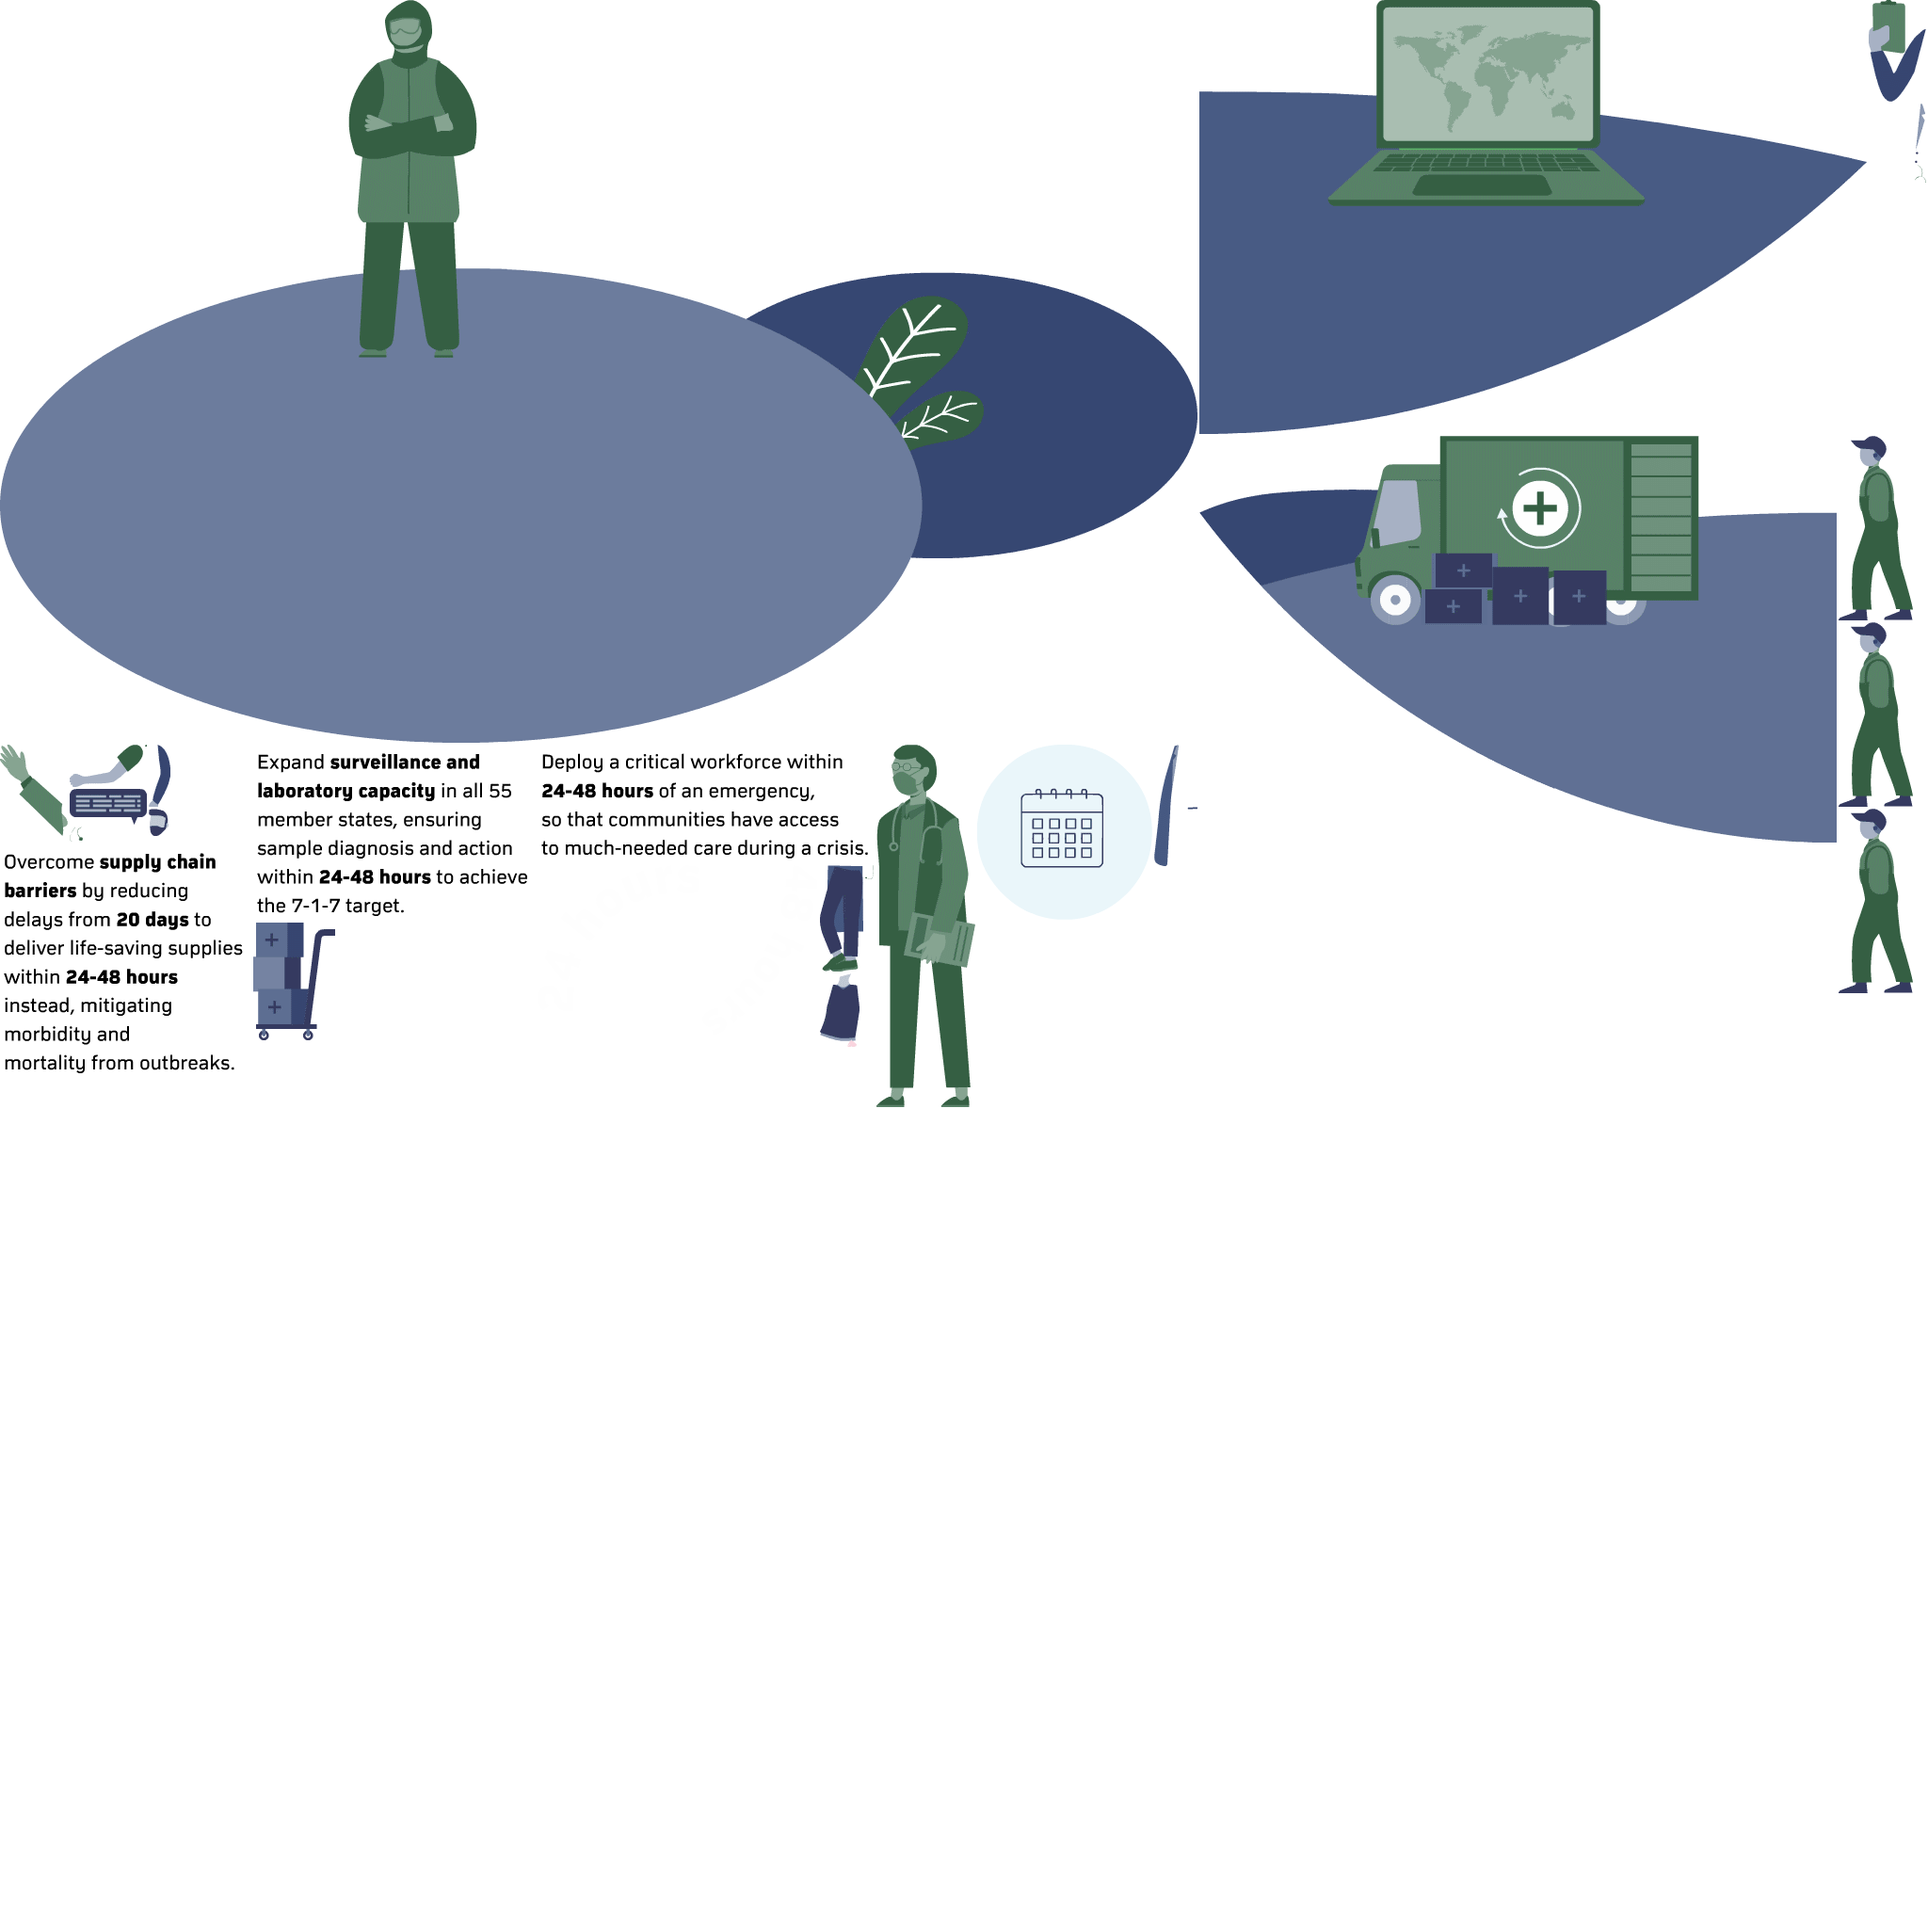
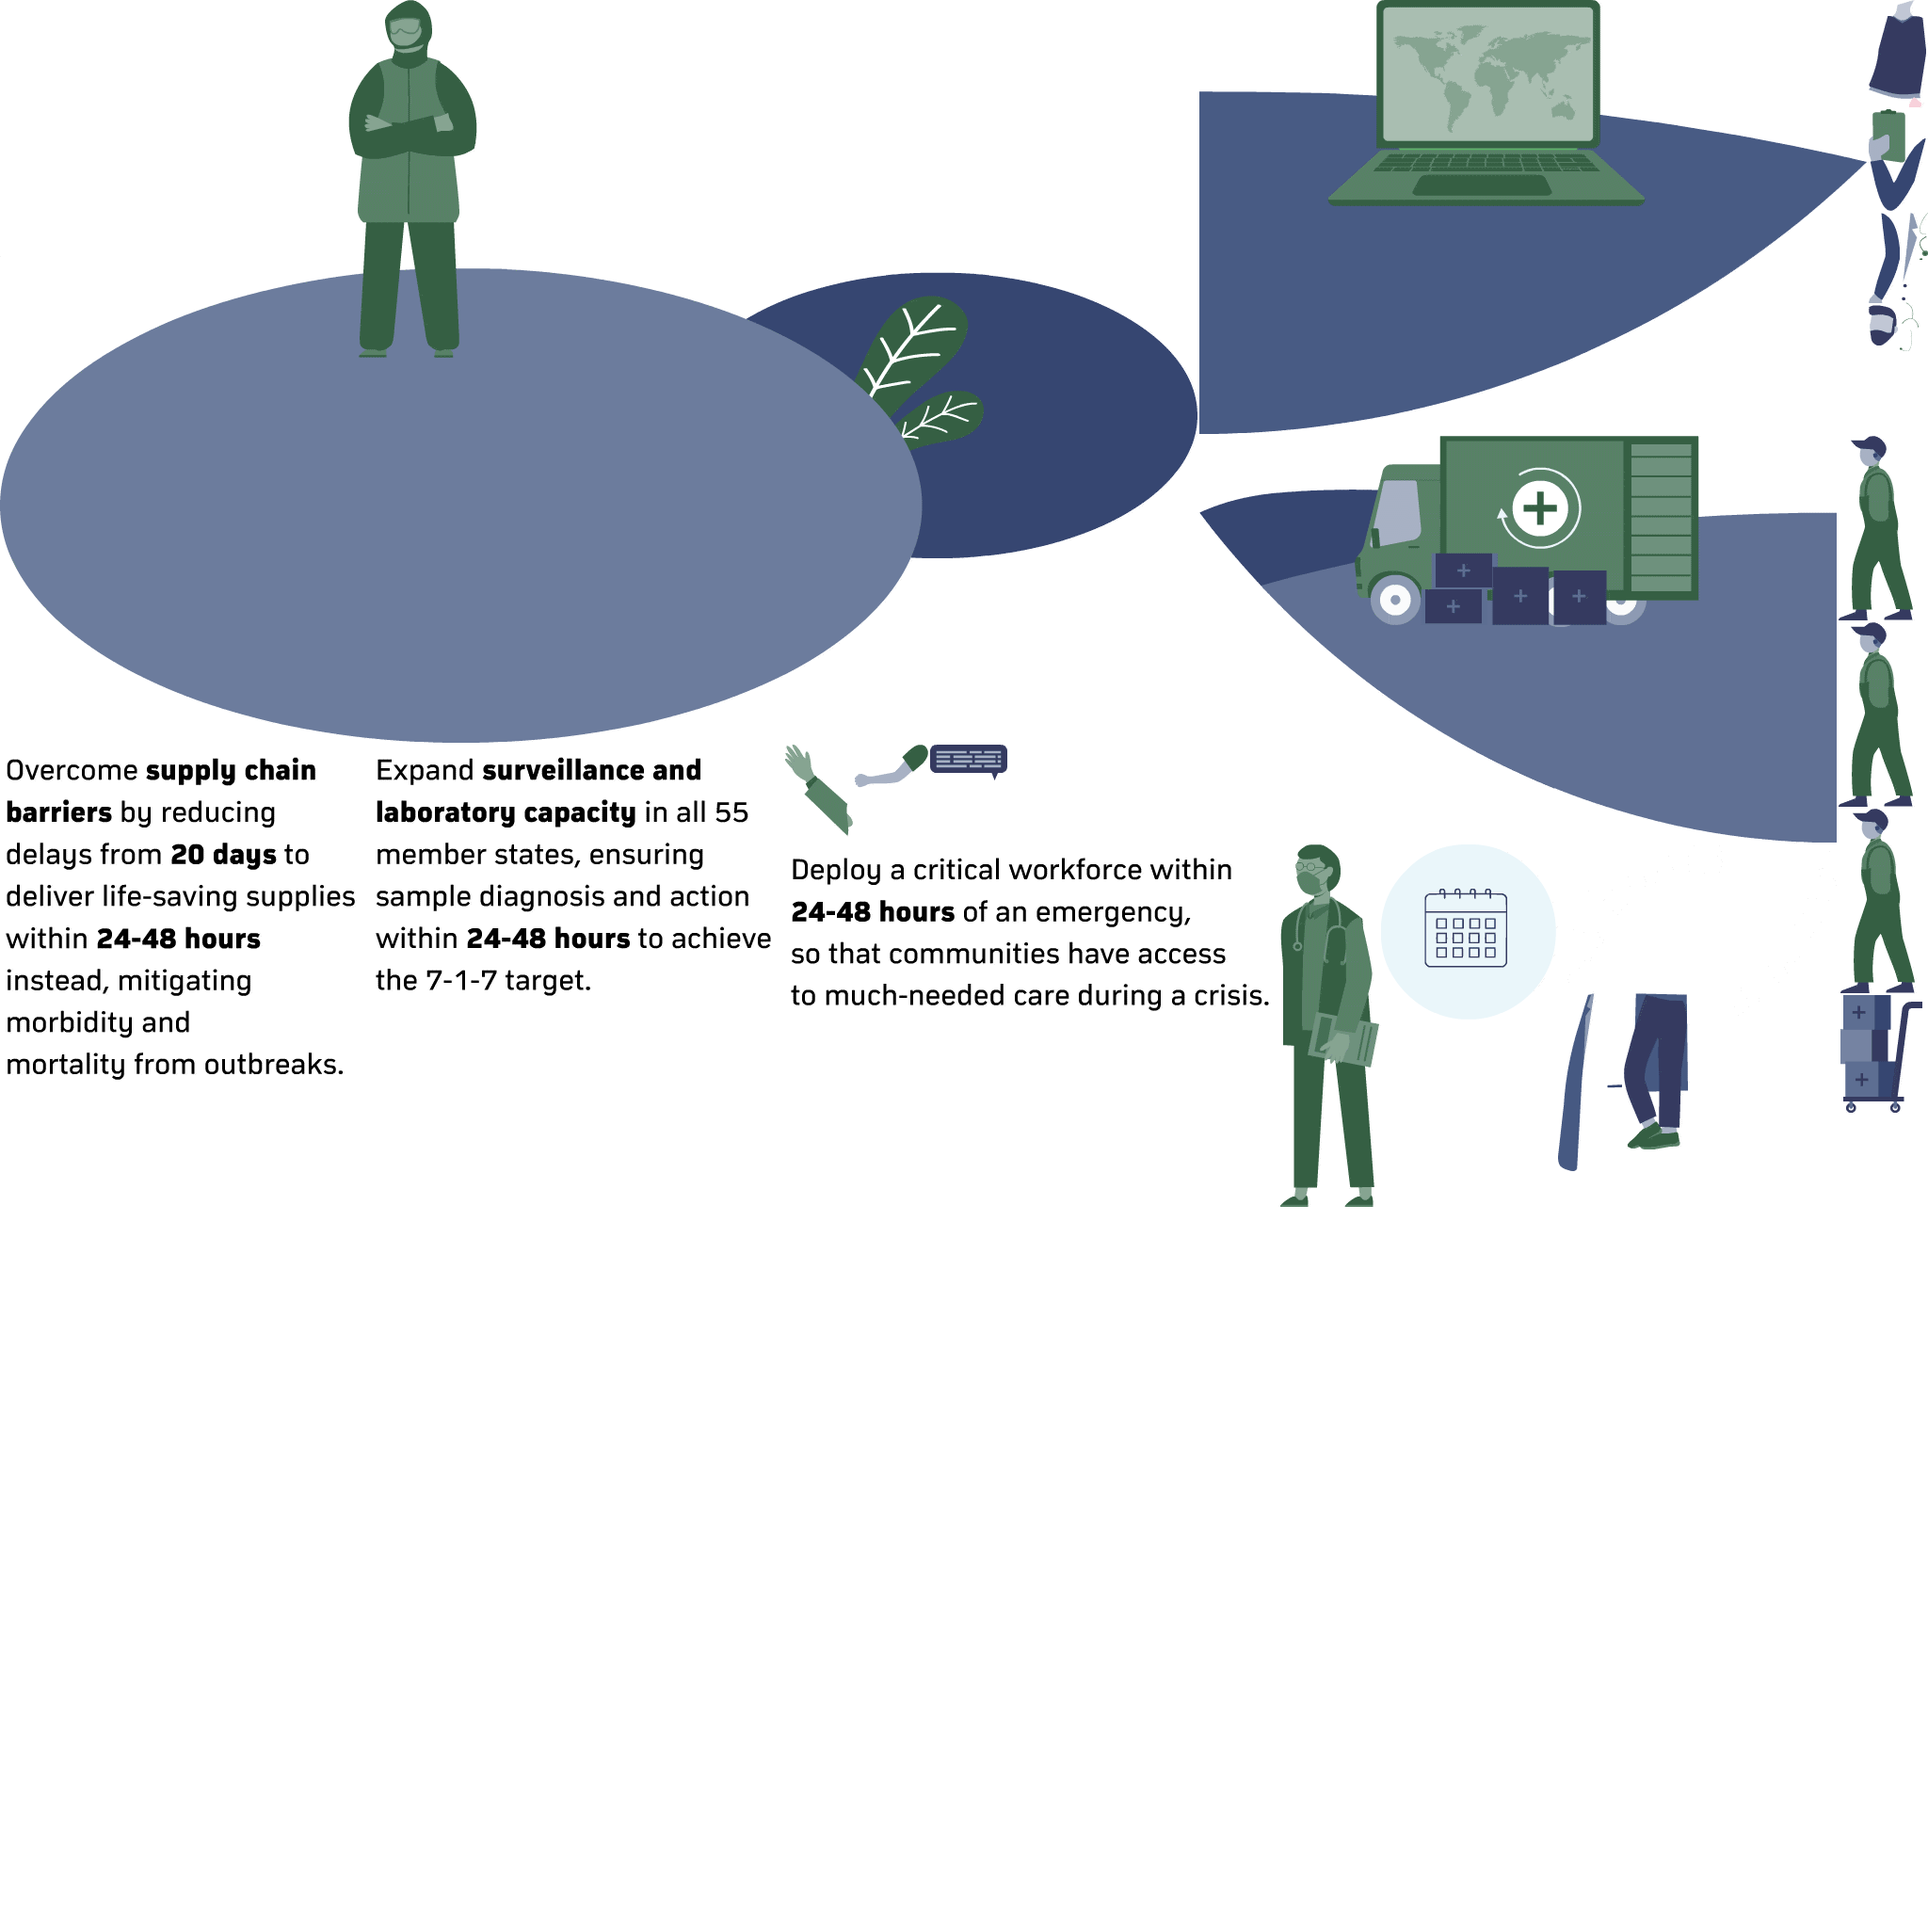
adding canvas change

diff --git a/public/scripts/outer-circle.js b/public/scripts/outer-circle.js
@@ -4,7 +4,7 @@
 	var lib={};var ss={};var img={};
 	lib.ssMetadata = [
 			{name:"cir1_atlas_1", frames: [[0,0,1699,1699]]},
-			{name:"cir1_atlas_2", frames: [[571,919,173,156],[269,980,87,125],[746,919,123,181],[74,838,82,38],[74,791,78,45],[0,897,267,248],[269,791,300,187],[571,791,358,126],[0,791,72,97],[1985,0,61,108],[1274,463,677,432],[1274,0,709,461],[0,0,1272,789],[1038,791,186,186],[1953,463,79,196],[1953,661,79,196],[1953,859,79,196],[931,791,105,385],[158,859,21,29],[82,878,6,15],[2034,175,12,19],[154,791,2,2],[74,878,6,16],[919,919,9,15],[158,791,23,66],[1226,791,46,129],[2034,110,11,63],[871,1034,42,78],[871,919,46,113]]}
+			{name:"cir1_atlas_2", frames: [[1655,897,173,156],[1955,1057,87,125],[1830,897,123,181],[988,791,82,38],[908,791,78,45],[0,791,391,363],[393,791,439,274],[834,897,524,184],[834,791,72,97],[1985,116,61,108],[1274,463,677,432],[1274,0,709,461],[0,0,1272,789],[1467,897,186,186],[1953,463,79,196],[1953,661,79,196],[1955,859,79,196],[1360,897,105,385],[1985,324,31,43],[2039,251,9,21],[2020,321,18,27],[2039,274,3,2],[2039,226,9,23],[2018,350,13,23],[1985,226,33,96],[1655,1055,68,189],[2020,226,17,93],[1985,0,61,114],[1725,1055,68,166]]}
 	];
 	
 	
@@ -497,13 +497,13 @@
 	
 		// Layer_1
 		this.instance = new lib.CachedBmp_24();
-		this.instance.setTransform(0,0,0.5,0.5);
+		this.instance.setTransform(0,0,0.3413,0.3413);
 	
 		this.timeline.addTween(cjs.Tween.get(this.instance).wait(1));
 	
 		this._renderFirstFrame();
 	
-	}).prototype = getMCSymbolPrototype(lib.ost3, new cjs.Rectangle(0,0,133.5,124), null);
+	}).prototype = getMCSymbolPrototype(lib.ost3, new cjs.Rectangle(0,0,133.5,123.9), null);
 	
 	
 	(lib.ost2 = function(mode,startPosition,loop,reversed) {
@@ -519,13 +519,13 @@
 	
 		// Layer_1
 		this.instance = new lib.CachedBmp_23();
-		this.instance.setTransform(0,0,0.5,0.5);
+		this.instance.setTransform(0,0,0.3413,0.3413);
 	
 		this.timeline.addTween(cjs.Tween.get(this.instance).wait(1));
 	
 		this._renderFirstFrame();
 	
-	}).prototype = getMCSymbolPrototype(lib.ost2, new cjs.Rectangle(0,0,150,93.5), null);
+	}).prototype = getMCSymbolPrototype(lib.ost2, new cjs.Rectangle(0,0,149.9,93.5), null);
 	
 	
 	(lib.ost1 = function(mode,startPosition,loop,reversed) {
@@ -541,13 +541,13 @@
 	
 		// Layer_1
 		this.instance = new lib.CachedBmp_22();
-		this.instance.setTransform(0,0,0.5,0.5);
+		this.instance.setTransform(0,0,0.3413,0.3413);
 	
 		this.timeline.addTween(cjs.Tween.get(this.instance).wait(1));
 	
 		this._renderFirstFrame();
 	
-	}).prototype = getMCSymbolPrototype(lib.ost1, new cjs.Rectangle(0,0,179,63), null);
+	}).prototype = getMCSymbolPrototype(lib.ost1, new cjs.Rectangle(0,0,178.9,62.8), null);
 	
 	
 	(lib.hand_anim = function(mode,startPosition,loop,reversed) {
@@ -1567,167 +1567,167 @@
 	
 		// Cir2
 		this.instance = new lib.Cir2_Anim();
-		this.instance.setTransform(512,288,0.5333,0.5333,0,0,0,0.1,0.1);
+		this.instance.setTransform(750,421.9,0.7812,0.7812,0,0,0,0.1,0.1);
 	
 		this.timeline.addTween(cjs.Tween.get(this.instance).wait(1));
 	
 		// Btn1
 		this.btn1 = new lib.btn();
 		this.btn1.name = "btn1";
-		this.btn1.setTransform(514.95,178,0.5333,0.5333,0,0,0,-357.2,-206.2);
+		this.btn1.setTransform(754.3,260.7,0.7812,0.7812,0,0,0,-357.2,-206.2);
 	
 		this.timeline.addTween(cjs.Tween.get(this.btn1).wait(1));
 	
 		// Btn2
 		this.btn2 = new lib.btn2();
 		this.btn2.name = "btn2";
-		this.btn2.setTransform(624.9,342.95,0.5333,0.5333,0,0,0,206.2,309.4);
+		this.btn2.setTransform(915.4,502.35,0.7812,0.7812,0,0,0,206.2,309.4);
 	
 		this.timeline.addTween(cjs.Tween.get(this.btn2).wait(1));
 	
 		// Btn3
 		this.btn3 = new lib.btn3();
 		this.btn3.name = "btn3";
-		this.btn3.setTransform(404.95,342.95,0.5333,0.5333,0,0,0,206.2,309.4);
+		this.btn3.setTransform(593.25,502.35,0.7812,0.7812,0,0,0,206.3,309.4);
 	
 		this.timeline.addTween(cjs.Tween.get(this.btn3).wait(1));
 	
 		// Layer_1
 		this.mcText3 = new lib.ost3();
 		this.mcText3.name = "mcText3";
-		this.mcText3.setTransform(309,239);
+		this.mcText3.setTransform(452.6,350.05,1.4648,1.4648);
 	
 		this.mcText2 = new lib.ost2();
 		this.mcText2.name = "mcText2";
-		this.mcText2.setTransform(583,252);
+		this.mcText2.setTransform(854,369.1,1.4648,1.4648);
 	
 		this.mcText1 = new lib.ost1();
 		this.mcText1.name = "mcText1";
-		this.mcText1.setTransform(497.1,123.05,1,1,0,0,0,0.1,0.1);
+		this.mcText1.setTransform(728.15,180.25,1.4648,1.4648,0,0,0,0.1,0.1);
 	
 		this.timeline.addTween(cjs.Tween.get({}).to({state:[{t:this.mcText1},{t:this.mcText2},{t:this.mcText3}]}).wait(1));
 	
 		// Cir_Anim1
 		this.Anim_Cir1 = new lib.Anim_Cir1();
 		this.Anim_Cir1.name = "Anim_Cir1";
-		this.Anim_Cir1.setTransform(441.4,116.2,0.5333,0.5333,0,0,0,0.1,0);
+		this.Anim_Cir1.setTransform(646.6,170.2,0.7812,0.7812,0,0,0,0.1,0);
 	
 		this.timeline.addTween(cjs.Tween.get(this.Anim_Cir1).wait(1));
 	
 		// cir2_charecter
 		this.instance_1 = new lib.CachedBmp_11();
-		this.instance_1.setTransform(635.55,356.65,0.5,0.5);
+		this.instance_1.setTransform(930.95,522.4,0.5,0.5);
 	
 		this.instance_2 = new lib.CachedBmp_10();
-		this.instance_2.setTransform(634.8,372,0.5,0.5);
+		this.instance_2.setTransform(929.8,544.85,0.5,0.5);
 	
 		this.instance_3 = new lib.CachedBmp_9();
-		this.instance_3.setTransform(641.55,371.75,0.5,0.5);
+		this.instance_3.setTransform(939.7,544.45,0.5,0.5);
 	
 		this.instance_4 = new lib.CachedBmp_8();
-		this.instance_4.setTransform(641.45,386.2,0.5,0.5);
+		this.instance_4.setTransform(939.55,565.6,0.5,0.5);
 	
 		this.instance_5 = new lib.Group3270();
-		this.instance_5.setTransform(641.85,386.95,0.5329,0.5329,0,0,0,1.9,1.8);
+		this.instance_5.setTransform(940.45,566.8,0.7804,0.7804,0,0,0,2.6,2.2);
 		this.instance_5.alpha = 0.3984;
 	
 		this.instance_6 = new lib.CachedBmp_7();
-		this.instance_6.setTransform(638.95,379,0.5,0.5);
+		this.instance_6.setTransform(935.85,555.05,0.5,0.5);
 	
 		this.instance_7 = new lib.CachedBmp_6();
-		this.instance_7.setTransform(643.4,380.4,0.5,0.5);
+		this.instance_7.setTransform(942.45,557.1,0.5,0.5);
 	
 		this.instance_8 = new lib.CachedBmp_5();
-		this.instance_8.setTransform(642.05,373,0.5,0.5);
+		this.instance_8.setTransform(940.4,546.3,0.5,0.5);
 	
 		this.instance_9 = new lib.CachedBmp_4();
-		this.instance_9.setTransform(623.8,372.2,0.5,0.5);
+		this.instance_9.setTransform(913.7,545.1,0.5,0.5);
 	
 		this.instance_10 = new lib.CachedBmp_3();
-		this.instance_10.setTransform(640.25,371.95,0.5,0.5);
+		this.instance_10.setTransform(937.75,544.75,0.5,0.5);
 	
 		this.instance_11 = new lib.ClipGroup_0();
-		this.instance_11.setTransform(647.05,404.65,0.533,0.533,0,0,0,14.6,62.2);
+		this.instance_11.setTransform(947.8,592.85,0.7806,0.7806,0,0,0,14.9,62.7);
 	
 		this.instance_12 = new lib.CachedBmp_2();
-		this.instance_12.setTransform(627.8,366.9,0.5,0.5);
+		this.instance_12.setTransform(919.55,537.35,0.5,0.5);
 	
 		this.instance_13 = new lib.CachedBmp_1();
-		this.instance_13.setTransform(624.8,399.4,0.5,0.5);
+		this.instance_13.setTransform(915.15,585,0.5,0.5);
 	
 		this.timeline.addTween(cjs.Tween.get({}).to({state:[{t:this.instance_13},{t:this.instance_12},{t:this.instance_11},{t:this.instance_10},{t:this.instance_9},{t:this.instance_8},{t:this.instance_7},{t:this.instance_6},{t:this.instance_5},{t:this.instance_4},{t:this.instance_3},{t:this.instance_2},{t:this.instance_1}]}).wait(1));
 	
 		// Anim2
 		this.Anim_Cir2 = new lib.Anim_Cir2();
 		this.Anim_Cir2.name = "Anim_Cir2";
-		this.Anim_Cir2.setTransform(586.3,378.75,0.5333,0.5333,0,0,0,91.5,26.9);
+		this.Anim_Cir2.setTransform(858.85,554.75,0.7812,0.7812,0,0,0,91.5,26.9);
 	
 		this.timeline.addTween(cjs.Tween.get(this.Anim_Cir2).wait(1));
 	
 		// Cir_1
 		this.instance_14 = new lib.ClipGroup_2();
-		this.instance_14.setTransform(506,197.9,0.5332,0.5332,0,0,0,374.4,244);
+		this.instance_14.setTransform(741.15,289.9,0.7811,0.7811,0,0,0,374.4,244.1);
 	
 		this.shape = new cjs.Shape();
[1 lines of base64/hex data omitted]
-		this.shape.setTransform(514.8918,177.9852,0.5332,0.5332);
+		this.shape.setTransform(754.2081,260.7108,0.7811,0.7811);
 	
 		this.shape_1 = new cjs.Shape();
[1 lines of base64/hex data omitted]
-		this.shape_1.setTransform(514.8918,168.44,0.5332,0.5332);
+		this.shape_1.setTransform(754.2081,246.7291,0.7811,0.7811);
 	
 		this.timeline.addTween(cjs.Tween.get({}).to({state:[{t:this.shape_1},{t:this.shape},{t:this.instance_14}]}).wait(1));
 	
 		// Cir_2
 		this.instance_15 = new lib.ClipGroup_1();
-		this.instance_15.setTransform(615.65,346.45,0.5332,0.5332,0,0,0,224.1,316.4);
+		this.instance_15.setTransform(901.8,507.5,0.7811,0.7811,0,0,0,224.2,316.5);
 	
 		this.shape_2 = new cjs.Shape();
[1 lines of base64/hex data omitted]
-		this.shape_2.setTransform(624.8477,342.919,0.5332,0.5332);
+		this.shape_2.setTransform(915.2704,502.3042,0.7811,0.7811);
 	
 		this.shape_3 = new cjs.Shape();
[1 lines of base64/hex data omitted]
-		this.shape_3.setTransform(634.3796,347.6916,0.5332,0.5332);
+		this.shape_3.setTransform(929.2325,509.295,0.7811,0.7811);
 	
 		this.timeline.addTween(cjs.Tween.get({}).to({state:[{t:this.shape_3},{t:this.shape_2},{t:this.instance_15}]}).wait(1));
 	
 		// Anim3
 		this.Anim_Cir3 = new lib.Anim_Cir3();
 		this.Anim_Cir3.name = "Anim_Cir3";
-		this.Anim_Cir3.setTransform(462.9,398.2,0.5333,0.5333,0,0,0,0.1,0.1);
+		this.Anim_Cir3.setTransform(678.1,583.3,0.7812,0.7812,0,0,0,0.1,0.1);
 	
 		this.timeline.addTween(cjs.Tween.get(this.Anim_Cir3).wait(1));
 	
 		// Cir_3_1
 		this.instance_16 = new lib.ClipGroup();
-		this.instance_16.setTransform(405,344.95,0.5332,0.5332,0,0,0,206.7,313.6);
+		this.instance_16.setTransform(593.3,505.35,0.7811,0.7811,0,0,0,206.8,313.7);
 	
 		this.shape_4 = new cjs.Shape();
[1 lines of base64/hex data omitted]
-		this.shape_4.setTransform(404.9226,342.919,0.5332,0.5332);
+		this.shape_4.setTransform(593.1263,502.3042,0.7811,0.7811);
 	
 		this.shape_5 = new cjs.Shape();
[1 lines of base64/hex data omitted]
-		this.shape_5.setTransform(395.3774,347.6916,0.5332,0.5332);
+		this.shape_5.setTransform(579.1447,509.295,0.7811,0.7811);
 	
 		this.timeline.addTween(cjs.Tween.get({}).to({state:[{t:this.shape_5},{t:this.shape_4},{t:this.instance_16}]}).wait(1));
 	
 		this._renderFirstFrame();
 	
 	}).prototype = p = new lib.AnMovieClip();
-	p.nominalBounds = new cjs.Rectangle(787.9,337,-34,190);
+	p.nominalBounds = new cjs.Rectangle(1154.1,493.2,-49.799999999999955,278.7);
 	// library properties:
 	lib.properties = {
 		id: 'A21712AB28279C479C1EE6271A2DA330',
-		width: 1024,
-		height: 576,
+		width: 1500,
+		height: 843,
 		fps: 60,
 		color: "#FFFFFF",
 		opacity: 1.00,
 		manifest: [
-			{src:"images/cir1_atlas_1.png?1714560141491", id:"cir1_atlas_1"},
-			{src:"images/cir1_atlas_2.png?1714560141491", id:"cir1_atlas_2"}
+			{src:"images/cir1_atlas_1.png?1716220871484", id:"cir1_atlas_1"},
+			{src:"images/cir1_atlas_2.png?1716220871485", id:"cir1_atlas_2"}
 		],
 		preloads: []
 	};

diff --git a/src/app/_components/turnaround-time.js b/src/app/_components/turnaround-time.js
@@ -58,7 +58,7 @@ export function TurnAroundTime({ isVisible }) {
 
   return (
     <div className="flex flex-col lg:flex-row items-center justify-center relative">
-      <img className="w-full md:h-[800px] h-[400px]" src="/assets/blog/jpgs/Group 3346.webp" alt="turnaround-page"></img>
+      <img className="w-full md:h-[500px] xl:h-[800px] h-[400px]" src="/assets/blog/jpgs/Group 3346.webp" alt="turnaround-page"></img>
       {isVisible ? (
         <div className="z-10 absolute h-full w-full flex justify-center items-center">
           {isXlScreen ? (
